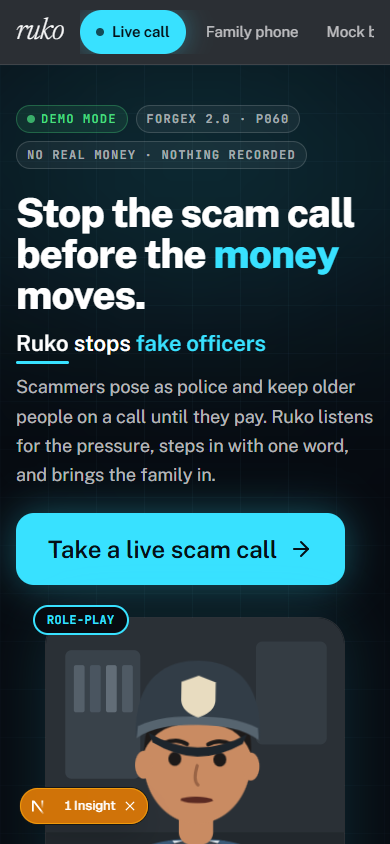
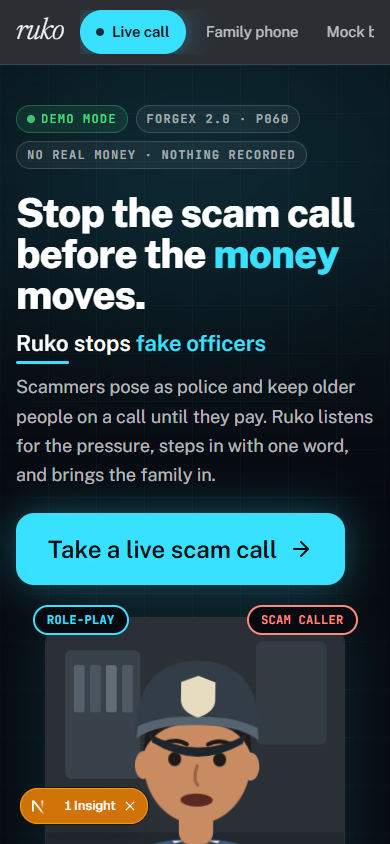
Docs: caller character, decisions, measurements

Changed region(s): [[0.6154, 0.7085, 0.9231, 0.7701], [0.4615, 0.9242, 0.5538, 0.955], [0.2462, 0.0308, 0.2769, 0.0616]]

diff --git a/docs/DECISIONS.md b/docs/DECISIONS.md
@@ -340,3 +340,11 @@ Built on a branch, **not merged and not deployed to the live address**, so the v
 ## 23 Oct: results page taken off the site
 
 - Owner asked to remove results from the site. The `/results` page now redirects to `/demo`, and its links are gone (control-room bar, the card grid, the trial lab's header). The earlier page is in git history. The call's own end screen ("You stopped before paying", labelled demo data) is unchanged: that is part of the live call, not the results dashboard. No field-trial results exist yet.
+
+## 23 Oct: animated caller character and the poppy pass
+
+- **The face is kept as it was.** The only existing face is the trial lab's `CallerAvatar` (Ruko's own mascot is the Guardian shield, a different thing). The new `CallerFace` reuses its exact shapes and colours and adds a cap, a collar and animation. The earlier rule in `CallerAvatar` ("no uniform, badge, emblem or logo") is superseded by the owner's new brief, which asks for a generic caricature cap and collar. It stays safe: blank shield, no text or insignia, no real force's colours, always labelled "Scam caller (role-play)".
+- **Accent colour:** I did not add a second accent (yellow or blue). The owner already chose the dark cyber look with cyan as its one accent, and a second accent would fight it. Cyan (#38e1ff, AA on the dark backgrounds) is the single "pop" colour on stage screens. Red stays for danger and STOP only.
+- **Expression is code, not AI** (`lib/caller-expression.ts`), from the stage and the tactic in use.
+- **Skipped today:** the 3D-feeling shared-element transition from the hero button to the call, View Transitions API, skeleton loaders, sound, a per-route polish pass beyond what the sweep found (no overflow or console errors on 17 routes at 390 and 1280 wide), and a hand-drawn arrow to the main button.
+- **Measured:** Lighthouse mobile, same machine, baseline = `main` before this work, then the new build: / 80 and 79, now 76 (home grew: animated face, facts strip, more sections); /demo/call 79, now 79; /bank 80 and 76, now 80 and 74. Accessibility 100 on all after fixing a list-markup error on the new home. Whole static bundle 2,965 KB to 2,988 KB (+23 KB). Offline presenter mode contacts only localhost and both endings pass.

diff --git a/docs/DESIGN.md b/docs/DESIGN.md
@@ -77,3 +77,19 @@ Same Ink foundation; this adds a character, a motion language and two supporting
 | `MotionToggle` | The Reduce motion switch. | Keep it easy to find. |
 
 CSS helpers: `.m-word`, `.m-ring` (ringing pulse), `.m-buzz` (answer button), `.m-stop-in` (the one entrance for STOP), `.m-lift`, `.m-tap`, `.m-route` (soft fade between pages, `app/template.tsx`). The palette is unchanged; motion comes from timing, scale and opacity.
+
+### The animated scam caller (23 Oct)
+
+`components/character/CallerFace.tsx`. The face is the **existing** illustrated caller of the trial lab (`components/lab/CallerAvatar.tsx`: same head, hair, eyes, nose, ears, mouth, shirt, colours). On top: a generic grey cartoon peaked cap with a **blank** shield, and a plain collar. No text, no real agency name, emblem, rank, badge or colour scheme. It is always labelled "Scam caller (role-play)".
+
+| What | How it is driven |
+|---|---|
+| Mouth | The loudness of the recorded voice (Web Audio analyser), else a gentle simulated wave. |
+| Idle life | Blinking, a slight head sway and a breath in the shoulders (CSS, transform only). Tempo rises with urgency. |
+| Expression | `lib/caller-expression.ts`, by code: friendly (contact, fear), stern (isolation, authority), urgent (urgency, payment, closing), sympathetic (when answering fear, money worries or anger), frustrated (when answering pushback). |
+| Ring and answer | A dark silhouette while ringing, the full face once answered. |
+| Unmasking | On the STOP screen the cap and collar drop away (about 0.6 s), "Fake officer" appears, and at 1.2 s the face fades to a silhouette. Reduced motion: the plain face with the tag, at once. |
+| Ending A | The silhouette fades and the calm Ruko shield takes its place (`SilhouetteToShield`). |
+| Ending B | The caller freezes (no animation), with "Payment paused" on it. |
+
+Also new: `Marquee` (scam facts strip, with Pause; still wrapped list when reduced), `Sticker` (pop-in badge, words only), `Confetti` (once, only for "Stopped before pay").
